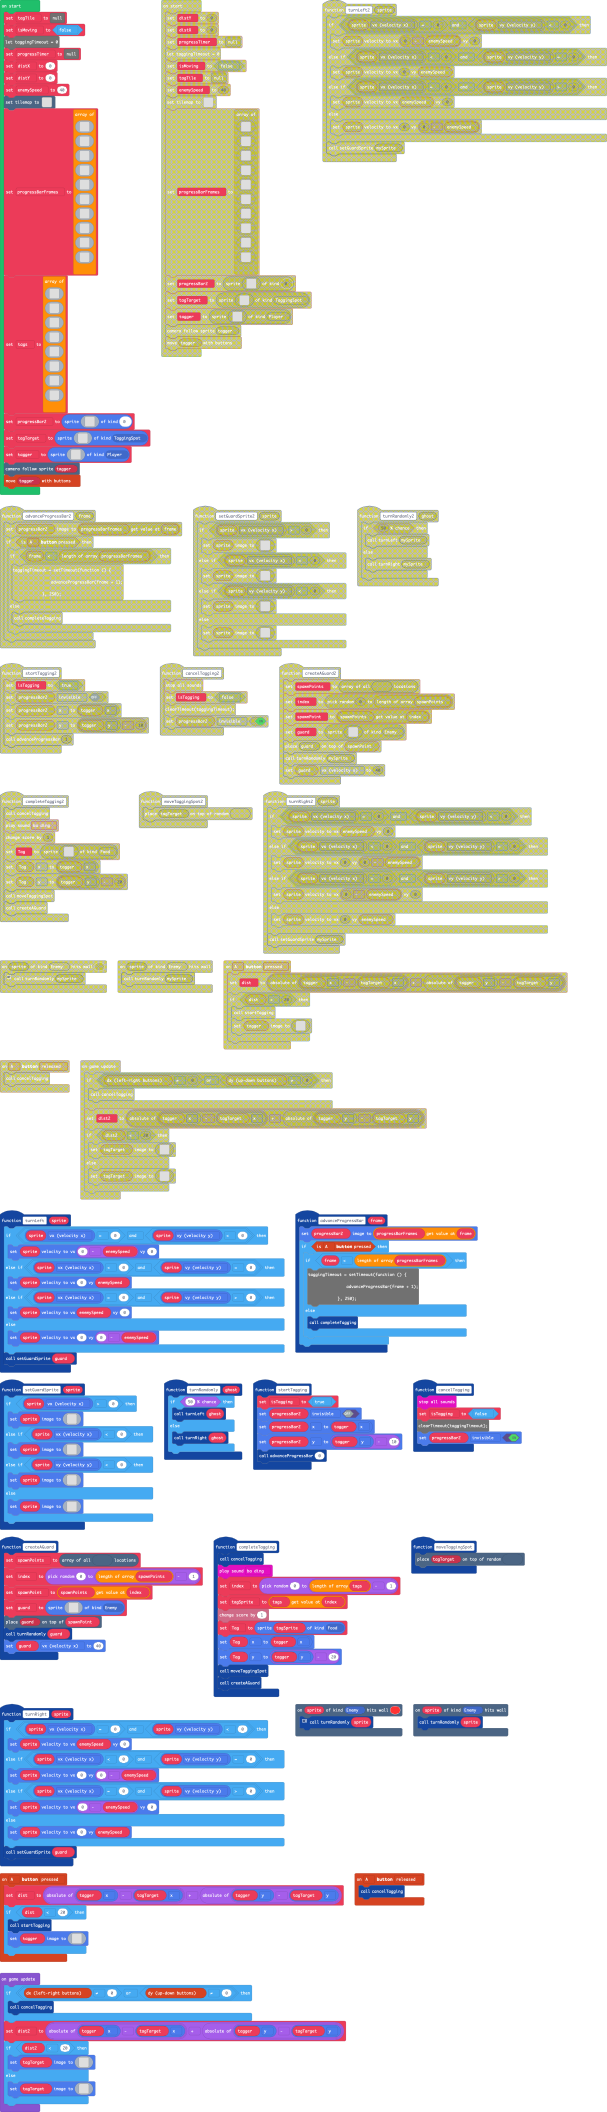
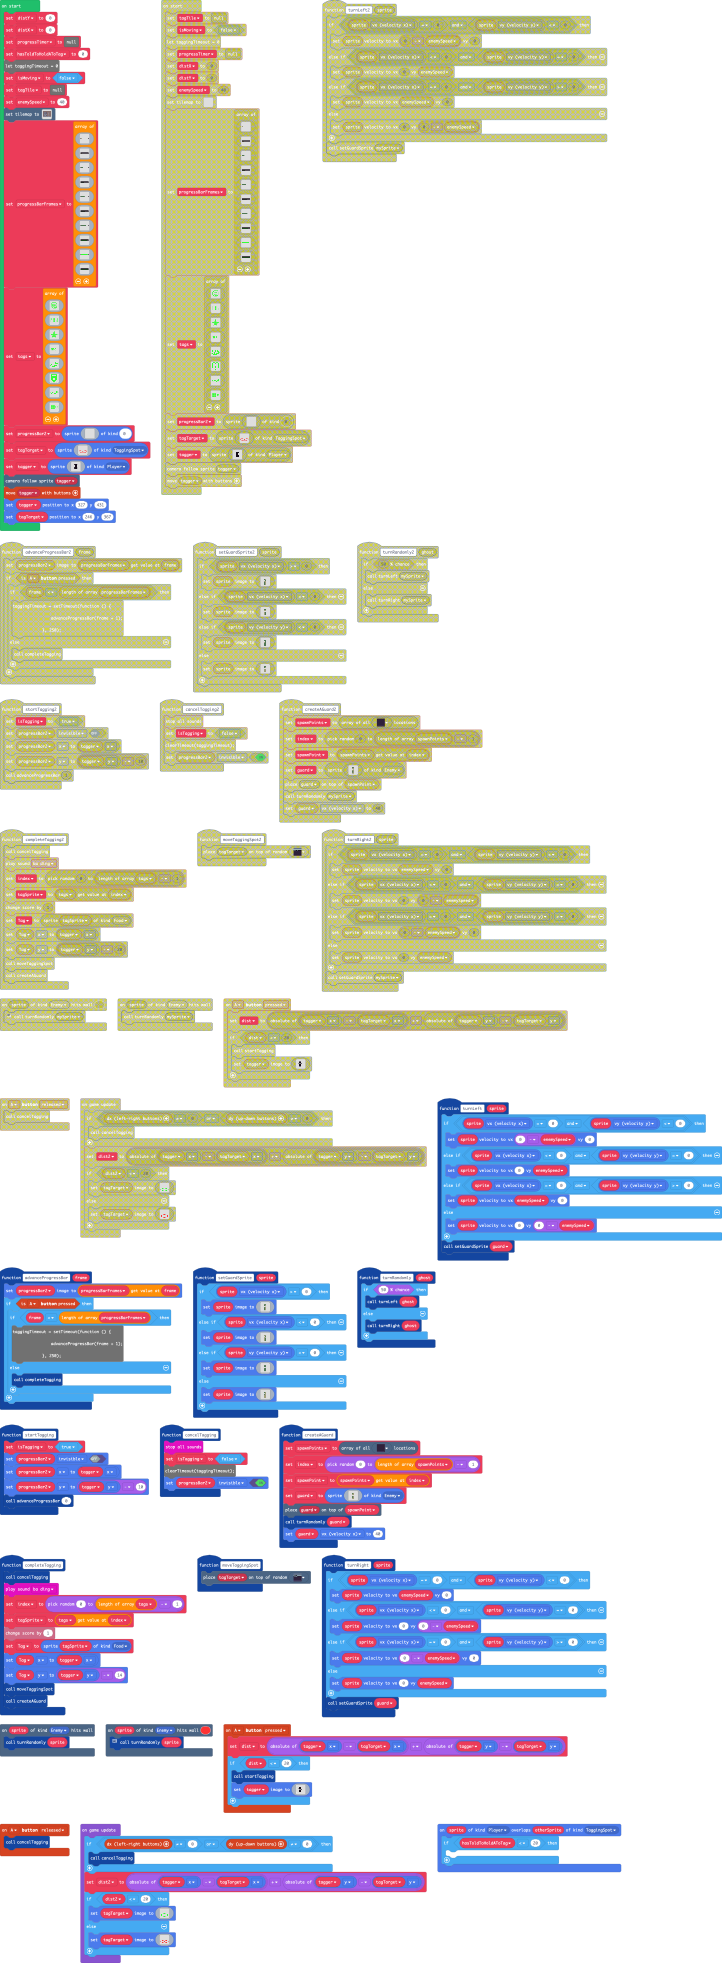
Move default location and start moving in

diff --git a/main.ts b/main.ts
@@ -364,6 +364,101 @@ f f f f f f f f f f f f f f f f
 7 7 7 7 7 7 7 7 7 7 7 7 7 7 7 7 
 7 7 7 7 7 7 7 7 7 7 7 7 7 7 7 7 
 `
+    //% blockIdentity=images._tile
+    export const tile21 = img`
+7 7 7 7 7 7 7 7 7 7 7 7 7 7 7 7 
+7 8 8 8 8 8 7 8 8 8 8 7 8 8 8 7 
+7 8 8 8 8 8 7 8 8 8 8 7 8 8 8 7 
+7 7 7 7 7 7 7 7 7 7 7 7 7 7 7 7 
+7 8 8 8 7 8 8 8 7 8 8 8 8 8 8 7 
+7 8 8 8 7 8 8 8 7 8 8 8 8 8 8 7 
+7 7 7 7 7 7 7 7 7 7 7 7 7 7 7 7 
+7 8 8 8 8 8 8 8 7 8 8 8 7 8 8 7 
+7 8 8 8 8 8 8 8 7 8 8 8 7 8 8 7 
+7 7 7 7 7 7 7 7 7 7 7 7 7 7 7 7 
+7 8 8 8 7 8 8 8 8 8 8 7 8 8 8 7 
+7 8 8 8 7 8 8 8 8 8 8 7 8 8 8 7 
+7 7 7 7 7 7 7 7 7 7 7 7 7 7 7 7 
+7 8 8 8 8 7 8 8 8 7 8 8 8 8 8 7 
+3 8 3 3 8 3 3 3 3 7 8 3 3 8 8 7 
+3 3 7 3 3 3 3 7 7 7 3 3 7 3 3 7 
+`
+    //% blockIdentity=images._tile
+    export const tile22 = img`
+a a a a a a a a a a a a a a a 8 
+a a a a a a a a a a a a a 5 a 8 
+a a a a a a a a a a a a 5 a 5 8 
+a a a a a a a a a a a a a 5 a 4 
+a a a a a a a a a a a a a a 4 8 
+a a a a a a a a a a a a a 5 a 4 
+a a a a a a a a a a a a a a 4 8 
+a a a a a a a a a a a a a 5 a 4 
+a a a a a a a a a a a a a a 4 8 
+a a a a a a a a a a a a a 5 a 4 
+a a a a a a a a a a a a 5 a 5 8 
+a a a a a a a a a a a a a 5 a 8 
+a a a a a a a a a a a a a a a 8 
+a a a a a a a a a a a a a a a 8 
+b b b b b b b b b b b b b b b 8 
+8 8 8 8 8 8 8 8 8 8 8 8 8 8 8 8 
+`
+    //% blockIdentity=images._tile
+    export const tile23 = img`
+a a a a a a a a a a a a a a a 8 
+a a 5 a a a a a a a a a a a a 8 
+a 4 a a a a a a a a a a a a a 8 
+4 a 5 a a a a a a a a a a a a 8 
+a 4 a a a a a a a a a a a a a 8 
+4 a 5 a a a a a a a a a a a a 8 
+a 4 a a a a a a a a a a a a a 8 
+4 a 5 a a a a a a a a a a a a 8 
+a 4 a a a a a a a a a a a a a 8 
+4 a 5 a a a a a a a a a a a a 8 
+a 4 a a a a a a a a a a a a a 8 
+a a 5 a a a a a a a a a a a a 8 
+a a a a a a a a a a a a a a a 8 
+a a a a a a a a a a a a a a a 8 
+b b b b b b b b b b b b b b b 8 
+8 8 8 8 8 8 8 8 8 8 8 8 8 8 8 8 
+`
+    //% blockIdentity=images._tile
+    export const tile24 = img`
+7 7 7 7 7 7 7 7 7 7 7 7 7 7 7 7 
+7 d d d d d d d d d d d d d d d 
+7 d f f f f f f f f f f f f f f 
+7 d f 9 9 9 9 9 f f f f f f f f 
+7 d f f f 9 f f f f f f f f f f 
+7 d f f f 9 f 9 9 f f 9 9 f f 9 
+7 d f f f 9 f 9 f f 9 f 9 f f 9 
+7 d f f f 9 f 9 f f 9 f 9 f f 9 
+7 d f f f 9 f 9 f f 9 9 9 9 f 9 
+7 d f f f f f f f f f f f f f f 
+7 d d d d d d d d d d d d d d d 
+7 8 8 8 7 8 8 8 8 8 8 7 8 8 8 7 
+7 7 7 7 7 7 7 7 7 7 7 7 7 7 7 7 
+7 8 8 8 8 7 8 8 8 7 8 8 8 8 8 7 
+3 8 3 3 8 3 3 3 3 7 8 3 3 8 8 7 
+3 3 7 3 3 3 3 7 7 7 3 3 7 3 3 7 
+`
+    //% blockIdentity=images._tile
+    export const tile25 = img`
+7 7 7 7 7 7 7 7 7 7 7 7 7 7 7 7 
+d d d d d d d d d d d d d 8 8 7 
+f f f f f f f f f f f f d 8 8 7 
+f f f f f f f f f f f f d 7 7 7 
+f f f f f f f f f f f f d 8 8 7 
+f 9 9 9 f 9 9 9 f f f f d 8 8 7 
+f 9 f 9 f 9 f f f f f f d 7 7 7 
+f 9 f 9 f f 9 9 f f f f d 8 8 7 
+f 9 f 9 f 9 9 9 f f f f d 8 8 7 
+f f f f f f f f f f f f d 7 7 7 
+d d d d d d d d d d d d d 8 8 7 
+7 8 8 8 7 8 8 8 8 8 8 7 8 8 8 7 
+7 7 7 7 7 7 7 7 7 7 7 7 7 7 7 7 
+7 8 8 8 8 7 8 8 8 7 8 8 8 8 8 7 
+3 8 3 3 8 3 3 3 3 7 8 3 3 8 8 7 
+3 3 7 3 3 3 3 7 7 7 3 3 7 3 3 7 
+`
 }
 function turnLeft (sprite: Sprite) {
     if (sprite.vx == 0 && sprite.vy < 0) {
@@ -562,7 +657,7 @@ function completeTagging () {
     info.changeScoreBy(1)
     Tag = sprites.create(tagSprite, SpriteKind.Food)
     Tag.x = tagger.x
-    Tag.y = tagger.y - 20
+    Tag.y = tagger.y - 14
     moveTaggingSpot()
     createAGuard()
 }
@@ -628,6 +723,12 @@ controller.right.onEvent(ControllerButtonEvent.Pressed, function () {
 . . . . . . . . . . . . . . . . 
 `)
 })
+sprites.onOverlap(SpriteKind.Player, SpriteKind.TaggingSpot, function (sprite, otherSprite) {
+    if (hasToldToHoldAToTag === 0) {
+        hasToldToHoldAToTag = 1
+    	tagger.say("Hold A to start tagging", 2,5 )
+    }
+})
 scene.onHitTile(SpriteKind.Enemy, 1, function (sprite) {
     // There are specific tiles for changing direction
     turnRandomly(sprite)
@@ -670,15 +771,17 @@ let progressBar2: Sprite = null
 let tags: Image[] = []
 let progressBarFrames: Image[] = []
 let enemySpeed = 0
-let tagTile = null
-let isMoving = false
-let taggingTimeout = 0
-let progressTimer = null
-let distX = 0
+let hasToldToHoldAToTag = 0
 let distY = 0
+let distX = 0
+let progressTimer = null
+hasToldToHoldAToTag = 0
+let taggingTimeout = 0
+let isMoving = false
+let tagTile = null
 enemySpeed = 40
 tiles.setTilemap(tiles.createTilemap(
[2 lines of base64/hex data omitted]
             img`
 . . . . . . . . . . . . . . . . . . . . . . . . . . . . . . . . . . . . . . . . 
 . . . . . . . . . . . . . . . . . . . . . . . . . . . . . . . . . . . . . . . . 
@@ -704,12 +807,12 @@ tiles.setTilemap(tiles.createTilemap(
 . . . 2 . . . . 2 2 2 2 2 2 2 2 . . . . 2 . . . . . . . . . . . . . . . . . . . 
 . . . 2 . . . . . . . . . . . . . . . . 2 . . . . . . . . . . . . . . . . . . . 
 . . . 2 . . . . . . . . . . . . . . . . 2 . . . . . . . . . . . . . . . . . . . 
-. . . 2 2 2 2 2 2 2 2 2 2 2 2 2 2 2 2 2 2 . . . . . . . . . . . . . . . . . . . 
-. . . 2 2 2 2 2 2 2 2 2 2 2 2 2 2 2 2 2 2 . . . . . . . . . . . . . . . . . . . 
+. . . 2 2 2 2 2 2 2 2 2 2 2 2 . 2 2 2 2 2 . . . . . . . . . . . . . . . . . . . 
+. . . 2 2 2 2 2 2 2 2 2 2 2 2 . 2 2 2 2 2 . . . . . . . . . . . . . . . . . . . 
 . . . . . . . . . . . . . . . . . . . . . . . . . . . . . . . . . . . . . . . . 
 . . . . . . . . . . . . . . . . . . . . . . . . . . . . . . . . . . . . . . . . 
 `,
-            [myTiles.tile0,sprites.builtin.forestTiles23,myTiles.tile1,sprites.castle.tilePath5,sprites.builtin.brick,sprites.vehicle.roadVertical,sprites.vehicle.roadHorizontal,sprites.dungeon.doorOpenNorth,sprites.castle.tileGrass1,sprites.castle.tilePath1,sprites.castle.tileGrass2,sprites.castle.tileGrass3,sprites.castle.tilePath2,sprites.castle.tilePath7,sprites.castle.tilePath4,sprites.castle.tilePath8,sprites.builtin.forestTiles24,myTiles.tile3,myTiles.tile4,myTiles.tile5,myTiles.tile6,myTiles.tile7,myTiles.tile8,myTiles.tile9,myTiles.tile10,myTiles.tile11,sprites.builtin.coral2,myTiles.tile12,sprites.castle.tilePath6,myTiles.tile13,myTiles.tile14,myTiles.tile16,myTiles.tile17,myTiles.tile18,myTiles.tile19,myTiles.tile20,sprites.castle.tilePath3,sprites.castle.tilePath9],
+            [myTiles.tile0,sprites.builtin.forestTiles23,myTiles.tile1,sprites.castle.tilePath5,sprites.builtin.brick,sprites.vehicle.roadVertical,sprites.vehicle.roadHorizontal,sprites.dungeon.doorOpenNorth,sprites.castle.tileGrass1,sprites.castle.tilePath1,sprites.castle.tileGrass2,sprites.castle.tileGrass3,sprites.castle.tilePath2,sprites.castle.tilePath7,sprites.castle.tilePath4,sprites.castle.tilePath8,sprites.builtin.forestTiles24,myTiles.tile3,myTiles.tile4,myTiles.tile5,myTiles.tile6,myTiles.tile7,myTiles.tile8,myTiles.tile9,myTiles.tile10,myTiles.tile11,sprites.builtin.coral2,myTiles.tile12,sprites.castle.tilePath6,myTiles.tile13,myTiles.tile14,myTiles.tile16,myTiles.tile17,myTiles.tile18,myTiles.tile19,myTiles.tile20,sprites.castle.tilePath3,sprites.castle.tilePath9,myTiles.tile21,myTiles.tile22,myTiles.tile23,myTiles.tile24,myTiles.tile25],
             TileScale.Sixteen
         ))
 progressBarFrames = [img`
@@ -1077,6 +1180,8 @@ tagger = sprites.create(img`
 `, SpriteKind.Player)
 scene.cameraFollowSprite(tagger)
 controller.moveSprite(tagger)
+tagger.setPosition(327, 431)
+tagTarget.setPosition(246, 367)
 game.onUpdate(function () {
     if (controller.dx() != 0 || controller.dy() != 0) {
         cancelTagging()
